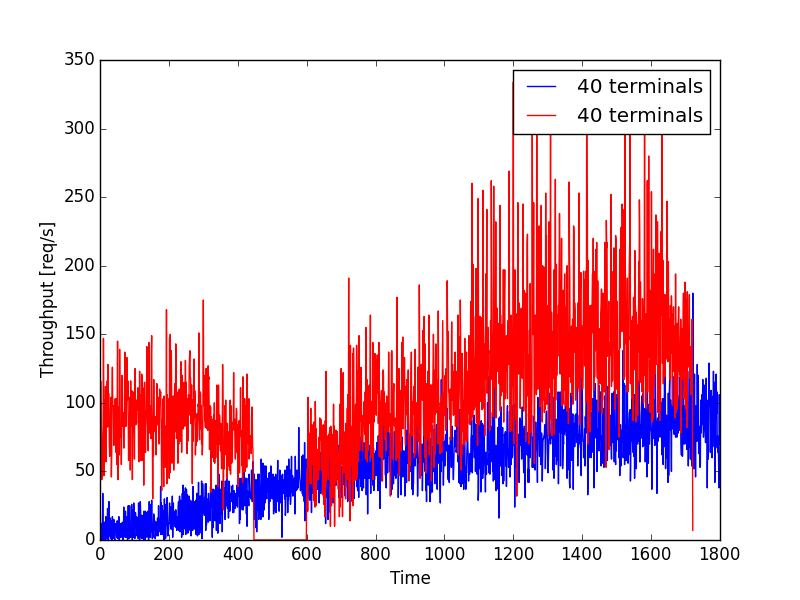
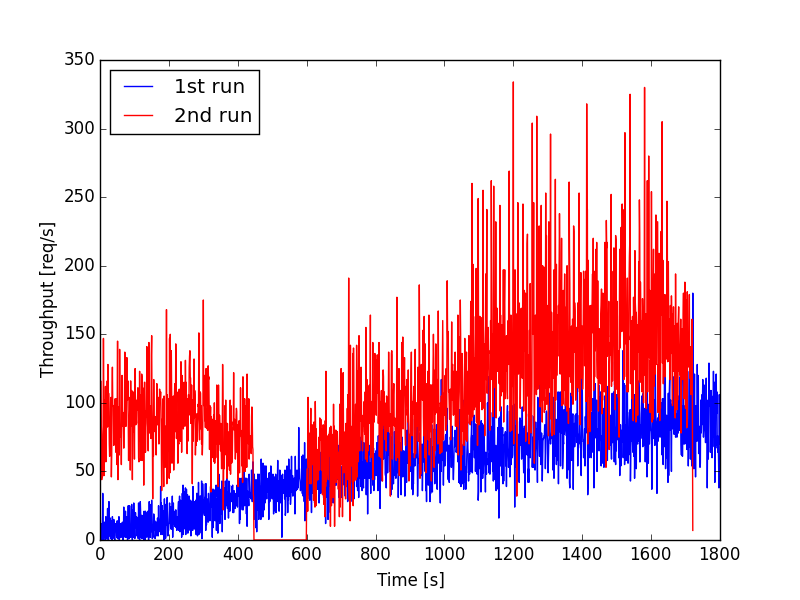
more corrections

Changed region(s): [[0.625, 0.09, 0.9062, 0.24], [0.125, 0.09, 0.3438, 0.24], [0.4688, 0.93, 0.5625, 0.99]]

diff --git a/chapters/chapter_4.tex b/chapters/chapter_4.tex
@@ -147,7 +147,7 @@ Indeed, better results regarding HDD are obtained for \texttt{vm1} hosted on the
 The fact is that this benchmark is run on a short period of time (2-3 seconds) and 
 it is difficult to evaluate hard disk and memory performance as they are always used by the system (some running processes can affect the results). 
 Other runs showed lower performance results (around 105 MB/s) for \texttt{vm1} for example.
-So, we can assume that both virtual machines (\texttt{vm1} and \texttt{vm2}) have quite similar performance and thus we expect to have quite similar results between them after running OLTP-Bench.
+So, we can assume that both virtual machines (\texttt{vm1} and \texttt{vm2}) have quite similar performances and thus we expect to have quite similar results between them after running OLTP-Bench.
 More interesting results are shown with values followed by a star (*). 
 Indeed, they present quite high performance results when a volume (hosted on \texttt{compute2}) is attached to the virtual machine (also hosted on \texttt{compute2}).
 When hdparm was performed, the timing buffered disk reads result increased between each run and did not stay stable like all other runs.
@@ -186,6 +186,7 @@ As it was expected, the performance does not change too much and tend to stay th
 %%--------------- end: RAM bandwidth
 
 \subsection{OLTP-Bench configuration}
+\label{sec:oltpb_config}
 Now that we have our machines, we can begin to run OLTP-Bench on it. 
 Before running the tests, the database has to be filled up with data generated by OLTP-Bench. 
 The amount of data produced depends on the scale factor parameter.
@@ -335,7 +336,7 @@ Afterwards, we are ready to start benchmarking. The different benchmarks are des
 %%---------------
 \section{Phase 1 - Physical machine}
 In order to have a point of comparison, the OLTP-Bench programm will be executed on the physical machine that performs the best regarding hdparm results, namely \texttt{compute2}.
-Before running the tests, we will fill up the database with the different scale factors: 1, 16, 32, 64, 74, 84, 94, 104 (see Listing \ref{lst:lst_cmd_oltpbenchmark}). 
+Before running the tests, we will fill up the database as explained in Section \ref{sec:oltpb_config}. 
 The size of each filled database is shown in Table \ref{table:tab_oltpb_scalefactor}.
 
 \begin{table}[h]
@@ -367,14 +368,13 @@ The size of each filled database is shown in Table \ref{table:tab_oltpb_scalefac
 	\label{table:tab_oltpb_scalefactor}
 \end{table}
 
-% TODO: reformulate
 Once the databases populated, we can run the benchmarks by using the \texttt{oltpbench-run} script. 
 In order to maximize performance, all the OpenStack services will be shut down during the tests. 
-Moreover, the machines will be rebooted after each scale factor test. 
-It has to be noted that after each run, the database will grow as many writes occur. 
-Despite this, the databases will not be refilled after each test. 
-Also, these tests were done with 40 terminals. 
-The benchmark has been excuted two times, each run lasting 1800 seconds.
+One test consists in two runs of the benchmark (each run lasts 1800 seconds) for a specified scale factor, thus eigth tests in total are performed for this phase.
+The terminal parameter is fixed to 40, meaning that the benchmark is simulating 40 users interacting with the system.
+Moreover, the machine will be rebooted between each test. 
+It has to be noted that after each run, the database size presented in Table \ref{table:tab_oltpb_scalefactor} will get larger, because the TPC-C is a write intensive test (e.g. new entries are added when a new order is coming in the system). 
+Despite this, the databases will not be refilled between each test. 
 
 \begin{figure}[h]
 	\centering
@@ -443,13 +443,13 @@ However, with scale factor 16, we observe a greater throughput loss with the \te
 Also, like with the results on \texttt{compute2}, we observe again a drop at scale factor 84, especially with the \textit{physical} flavor. 
 It seems to be a coincidence, because an analysis of the data (plotting througput over time in seconds) shows that the benchmark crashes at some point (i.e. there is 0 values for quite some time).
 This behavior appears quite frequently over all the different runs made, but in some case, like with scale factor 84, it has a greater impact.
-An example of such a crash is shown in Figure \ref{fig:vm115_physical_wobs_crash} (blue corresponds to the first run and red to the seconde run).
+An example of such a crash is shown in Figure \ref{fig:vm115_physical_wobs_crash} (blue corresponds to the first run and red to the second run).
 The crash begins after 450 seconds and lasts 150 seconds approximately.
 
 \begin{figure}[h]
 	\centering
 	\includegraphics[scale=0.5]{figures/results/vm115_physical_wobs_crash.png}
-	\caption{Crash on \texttt{vm2} physical (scale factor 84)}
+	\caption{Crash on \texttt{vm2} for physical flavor (scale factor 84, 40T)}
 	\label{fig:vm115_physical_wobs_crash}
 \end{figure}
 
@@ -592,7 +592,7 @@ The customer that rented a virtual machine expects it to run at full power (the 
 \begin{figure}[h]
 	\centering
 	\includegraphics[scale=0.5]{figures/results/vm_large_iso.png}
-	\caption{\texttt{vm1} (in red) and \texttt{vm2} (in blue) results for large flavor}
+	\caption{\texttt{vm1bs} and \texttt{vm2bs} results for large flavor}
 	\label{fig:vm_large_iso}
 \end{figure}
 
